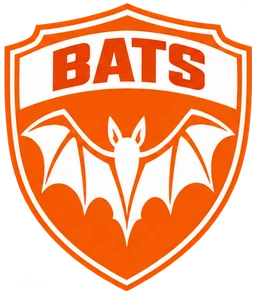
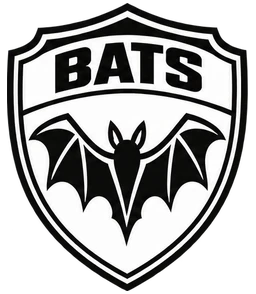
Correct audited overseas crest colours and migrate saved palettes

diff --git a/js/core/world-data.js b/js/core/world-data.js
@@ -1,4 +1,4 @@
 'use strict';
 // 2026/27 club membership only. Source provenance: data/world/sources.json.
 const WORLD_LEAGUES = {"ES1":{"id":"ES1","name":"La Liga","country":"Spain","nat":"ESP","teams":20,"matches":38,"background":true},"IT1":{"id":"IT1","name":"Serie A","country":"Italy","nat":"ITA","teams":20,"matches":38,"background":true},"DE1":{"id":"DE1","name":"Bundesliga","country":"Germany","nat":"GER","teams":18,"matches":34,"background":true},"FR1":{"id":"FR1","name":"Ligue 1","country":"France","nat":"FRA","teams":18,"matches":34,"background":true}};
-const WORLD_CLUBS = [{"id":"ES1_ATH","league":"ES1","name":"Lions of Bilbao","realName":"Athletic Club","city":"Bilbao","nat":"ESP","code":"ATH","c1":"#A50044","c2":"#F7CB46"},{"id":"ES1_OSA","league":"ES1","name":"Rojillos","realName":"CA Osasuna","city":"Pamplona","nat":"ESP","code":"OSA","c1":"#D71920","c2":"#142D4E"},{"id":"ES1_ATM","league":"ES1","name":"Colchoneros","realName":"Club Atlético de Madrid","city":"Madrid","nat":"ESP","code":"ATM","c1":"#A50044","c2":"#F7CB46"},{"id":"ES1_ALA","league":"ES1","name":"Babazorros","realName":"Deportivo Alavés","city":"Vitoria-Gasteiz","nat":"ESP","code":"ALA","c1":"#00529F","c2":"#FFFFFF"},{"id":"ES1_ELC","league":"ES1","name":"Franjiverdes","realName":"Elche CF","city":"Elche","nat":"ESP","code":"ELC","c1":"#007A3D","c2":"#FFFFFF"},{"id":"ES1_BAR","league":"ES1","name":"Blaugrana","realName":"FC Barcelona","city":"Barcelona","nat":"ESP","code":"BAR","c1":"#A50044","c2":"#F7CB46"},{"id":"ES1_GET","league":"ES1","name":"Azulones","realName":"Getafe CF","city":"Getafe","nat":"ESP","code":"GET","c1":"#005CA9","c2":"#FFFFFF"},{"id":"ES1_LEV","league":"ES1","name":"Granotas","realName":"Levante UD","city":"Valencia","nat":"ESP","code":"LEV","c1":"#002D62","c2":"#DA291C"},{"id":"ES1_MAL","league":"ES1","name":"Boquerones","realName":"Málaga CF","city":"Málaga","nat":"ESP","code":"MAL","c1":"#75C5F0","c2":"#FFFFFF"},{"id":"ES1_CEL","league":"ES1","name":"Celestes","realName":"RC Celta de Vigo","city":"Vigo","nat":"ESP","code":"CEL","c1":"#8CCCE5","c2":"#D71920"},{"id":"ES1_DEP","league":"ES1","name":"Herculinos","realName":"RC Deportivo La Coruña","city":"A Coruña","nat":"ESP","code":"DEP","c1":"#00529F","c2":"#FFFFFF"},{"id":"ES1_ESP","league":"ES1","name":"Periquitos","realName":"RCD Espanyol de Barcelona","city":"Barcelona","nat":"ESP","code":"ESP","c1":"#007BC4","c2":"#FFFFFF"},{"id":"ES1_RAY","league":"ES1","name":"Franjirrojos","realName":"Rayo Vallecano de Madrid","city":"Madrid","nat":"ESP","code":"RAY","c1":"#FFFFFF","c2":"#E30613"},{"id":"ES1_BET","league":"ES1","name":"Verdiblancos","realName":"Real Betis Balompié","city":"Seville","nat":"ESP","code":"BET","c1":"#087A3E","c2":"#FFFFFF"},{"id":"ES1_RMA","league":"ES1","name":"Castilla CF","realName":"Real Madrid CF","city":"Madrid","nat":"ESP","code":"RMA","c1":"#A50044","c2":"#F7CB46","existingRoster":"RMA"},{"id":"ES1_RAC","league":"ES1","name":"Montañeses","realName":"Real Racing Club de Santander","city":"Santander","nat":"ESP","code":"RAC","c1":"#00843D","c2":"#FFFFFF"},{"id":"ES1_RSO","league":"ES1","name":"Txuri-Urdin","realName":"Real Sociedad de Fútbol","city":"San Sebastián","nat":"ESP","code":"RSO","c1":"#FFFFFF","c2":"#00529F"},{"id":"ES1_SEV","league":"ES1","name":"Hispalenses","realName":"Sevilla FC","city":"Seville","nat":"ESP","code":"SEV","c1":"#FFFFFF","c2":"#D71920"},{"id":"ES1_VAL","league":"ES1","name":"Bats","realName":"Valencia CF","city":"Valencia","nat":"ESP","code":"VAL","c1":"#FFFFFF","c2":"#F58220"},{"id":"ES1_VIL","league":"ES1","name":"Yellow Submarine","realName":"Villarreal CF","city":"Villarreal","nat":"ESP","code":"VIL","c1":"#A50044","c2":"#F7CB46"},{"id":"IT1_MIL","league":"IT1","name":"Lombardia AC","realName":"AC Milan","city":"Milan","nat":"ITA","code":"MIL","c1":"#1369B0","c2":"#FFFFFF","existingRoster":"MIL"},{"id":"IT1_MON","league":"IT1","name":"Brianzoli","realName":"AC Monza","city":"Monza","nat":"ITA","code":"MON","c1":"#D71920","c2":"#FFFFFF"},{"id":"IT1_FIO","league":"IT1","name":"Viola","realName":"ACF Fiorentina","city":"Florence","nat":"ITA","code":"FIO","c1":"#592C82","c2":"#FFFFFF"},{"id":"IT1_ROM","league":"IT1","name":"Giallorossi","realName":"AS Roma","city":"Rome","nat":"ITA","code":"ROM","c1":"#8E1B2F","c2":"#F5B335"},{"id":"IT1_ATA","league":"IT1","name":"La Dea","realName":"Atalanta BC","city":"Bergamo","nat":"ITA","code":"ATA","c1":"#1369B0","c2":"#FFFFFF"},{"id":"IT1_BOL","league":"IT1","name":"Felsinei","realName":"Bologna FC 1909","city":"Bologna","nat":"ITA","code":"BOL","c1":"#C8102E","c2":"#142D4E"},{"id":"IT1_CAG","league":"IT1","name":"Isolani","realName":"Cagliari Calcio","city":"Cagliari","nat":"ITA","code":"CAG","c1":"#C8102E","c2":"#142D4E"},{"id":"IT1_COM","league":"IT1","name":"Lariani","realName":"Como 1907","city":"Como","nat":"ITA","code":"COM","c1":"#75C5F0","c2":"#FFFFFF"},{"id":"IT1_INT","league":"IT1","name":"Nerazzurri","realName":"FC Internazionale Milano","city":"Milan","nat":"ITA","code":"INT","c1":"#1369B0","c2":"#FFFFFF"},{"id":"IT1_FRO","league":"IT1","name":"Canarini","realName":"Frosinone Calcio","city":"Frosinone","nat":"ITA","code":"FRO","c1":"#F5D328","c2":"#00529F"},{"id":"IT1_GEN","league":"IT1","name":"Grifone","realName":"Genoa CFC","city":"Genoa","nat":"ITA","code":"GEN","c1":"#B5121B","c2":"#142D4E"},{"id":"IT1_JUV","league":"IT1","name":"Old Lady","realName":"Juventus FC","city":"Turin","nat":"ITA","code":"JUV","c1":"#1369B0","c2":"#FFFFFF"},{"id":"IT1_PAR","league":"IT1","name":"Crociati","realName":"Parma Calcio 1913","city":"Parma","nat":"ITA","code":"PAR","c1":"#F5D328","c2":"#00529F"},{"id":"IT1_LAZ","league":"IT1","name":"Biancocelesti","realName":"SS Lazio","city":"Rome","nat":"ITA","code":"LAZ","c1":"#87CEEB","c2":"#FFFFFF"},{"id":"IT1_NAP","league":"IT1","name":"Partenopei","realName":"SSC Napoli","city":"Naples","nat":"ITA","code":"NAP","c1":"#1369B0","c2":"#FFFFFF"},{"id":"IT1_TOR","league":"IT1","name":"Granata","realName":"Torino FC","city":"Turin","nat":"ITA","code":"TOR","c1":"#7A263A","c2":"#FFFFFF"},{"id":"IT1_LEC","league":"IT1","name":"Salentini","realName":"US Lecce","city":"Lecce","nat":"ITA","code":"LEC","c1":"#D71920","c2":"#F5D328"},{"id":"IT1_SAS","league":"IT1","name":"Neroverdi","realName":"US Sassuolo Calcio","city":"Sassuolo","nat":"ITA","code":"SAS","c1":"#00843D","c2":"#111111"},{"id":"IT1_UDI","league":"IT1","name":"Zebrette","realName":"Udinese Calcio","city":"Udine","nat":"ITA","code":"UDI","c1":"#FFFFFF","c2":"#111111"},{"id":"IT1_VEN","league":"IT1","name":"Lagunari","realName":"Venezia FC","city":"Venice","nat":"ITA","code":"VEN","c1":"#111111","c2":"#E56B2F"},{"id":"DE1_KOE","league":"DE1","name":"Billy Goats","realName":"1. FC Köln","city":"Cologne","nat":"GER","code":"KOE","c1":"#ED1C24","c2":"#FFFFFF"},{"id":"DE1_UNI","league":"DE1","name":"Iron Ones","realName":"1. FC Union Berlin","city":"Berlin","nat":"GER","code":"UNI","c1":"#E30613","c2":"#FFFFFF"},{"id":"DE1_MAI","league":"DE1","name":"Zero-Fivers","realName":"1. FSV Mainz 05","city":"Mainz","nat":"GER","code":"MAI","c1":"#C8102E","c2":"#FFFFFF"},{"id":"DE1_LEV","league":"DE1","name":"Rhein 04","realName":"Bayer 04 Leverkusen","city":"Leverkusen","nat":"GER","code":"LEV","c1":"#212121","c2":"#E94F36","existingRoster":"LEV"},{"id":"DE1_DOR","league":"DE1","name":"Black and Yellows","realName":"Borussia Dortmund","city":"Dortmund","nat":"GER","code":"DOR","c1":"#212121","c2":"#E94F36"},{"id":"DE1_BMG","league":"DE1","name":"Foals","realName":"Borussia Mönchengladbach","city":"Mönchengladbach","nat":"GER","code":"BMG","c1":"#FFFFFF","c2":"#111111"},{"id":"DE1_FRA","league":"DE1","name":"Frankfurt Eagles","realName":"Eintracht Frankfurt","city":"Frankfurt","nat":"GER","code":"FRA","c1":"#212121","c2":"#E94F36"},{"id":"DE1_AUG","league":"DE1","name":"Fuggerstädter","realName":"FC Augsburg","city":"Augsburg","nat":"GER","code":"AUG","c1":"#BA0C2F","c2":"#00843D"},{"id":"DE1_BAY","league":"DE1","name":"Bavarians","realName":"FC Bayern München","city":"Munich","nat":"GER","code":"BAY","c1":"#212121","c2":"#E94F36"},{"id":"DE1_S04","league":"DE1","name":"Royal Blues","realName":"FC Schalke 04","city":"Gelsenkirchen","nat":"GER","code":"S04","c1":"#004D9D","c2":"#FFFFFF"},{"id":"DE1_HSV","league":"DE1","name":"Red Shorts","realName":"Hamburger SV","city":"Hamburg","nat":"GER","code":"HSV","c1":"#005CA9","c2":"#FFFFFF"},{"id":"DE1_RBL","league":"DE1","name":"Red Bulls","realName":"RB Leipzig","city":"Leipzig","nat":"GER","code":"RBL","c1":"#212121","c2":"#E94F36"},{"id":"DE1_FRE","league":"DE1","name":"Breisgau Brazilians","realName":"SC Freiburg","city":"Freiburg","nat":"GER","code":"FRE","c1":"#D71920","c2":"#111111"},{"id":"DE1_PAD","league":"DE1","name":"Paderborn Blue-Blacks","realName":"SC Paderborn 07","city":"Paderborn","nat":"GER","code":"PAD","c1":"#00529F","c2":"#111111"},{"id":"DE1_ELV","league":"DE1","name":"Elversberg Village Club","realName":"SV 07 Elversberg","city":"Spiesen-Elversberg","nat":"GER","code":"ELV","c1":"#111111","c2":"#FFFFFF"},{"id":"DE1_WER","league":"DE1","name":"River Islanders","realName":"SV Werder Bremen","city":"Bremen","nat":"GER","code":"WER","c1":"#00843D","c2":"#FFFFFF"},{"id":"DE1_HOF","league":"DE1","name":"Village Club","realName":"TSG 1899 Hoffenheim","city":"Sinsheim","nat":"GER","code":"HOF","c1":"#1961A5","c2":"#FFFFFF"},{"id":"DE1_STU","league":"DE1","name":"Swabians","realName":"VfB Stuttgart","city":"Stuttgart","nat":"GER","code":"STU","c1":"#FFFFFF","c2":"#D71920"},{"id":"FR1_AUX","league":"FR1","name":"Auxerrois","realName":"AJ Auxerre","city":"Auxerre","nat":"FRA","code":"AUX","c1":"#00529F","c2":"#FFFFFF"},{"id":"FR1_MON","league":"FR1","name":"Monégasques","realName":"AS Monaco FC","city":"Monaco","nat":"FRA","code":"MON","c1":"#183766","c2":"#E7EAF1"},{"id":"FR1_ANG","league":"FR1","name":"Scoïstes","realName":"Angers SCO","city":"Angers","nat":"FRA","code":"ANG","c1":"#111111","c2":"#FFFFFF"},{"id":"FR1_TRO","league":"FR1","name":"Troyens","realName":"ES Troyes AC","city":"Troyes","nat":"FRA","code":"TRO","c1":"#75C5F0","c2":"#FFFFFF"},{"id":"FR1_LOR","league":"FR1","name":"Merlus","realName":"FC Lorient","city":"Lorient","nat":"FRA","code":"LOR","c1":"#F36C21","c2":"#111111"},{"id":"FR1_HAV","league":"FR1","name":"Ciel et Marine","realName":"Le Havre AC","city":"Le Havre","nat":"FRA","code":"HAV","c1":"#75C5F0","c2":"#142D4E"},{"id":"FR1_LEM","league":"FR1","name":"Sang et Or du Mans","realName":"Le Mans FC","city":"Le Mans","nat":"FRA","code":"LEM","c1":"#D71920","c2":"#F5D328"},{"id":"FR1_LIL","league":"FR1","name":"Dogues","realName":"Lille OSC","city":"Lille","nat":"FRA","code":"LIL","c1":"#183766","c2":"#E7EAF1"},{"id":"FR1_NIC","league":"FR1","name":"Aiglons","realName":"OGC Nice","city":"Nice","nat":"FRA","code":"NIC","c1":"#D71920","c2":"#111111"},{"id":"FR1_LYO","league":"FR1","name":"Gones","realName":"Olympique Lyonnais","city":"Lyon","nat":"FRA","code":"LYO","c1":"#183766","c2":"#E7EAF1"},{"id":"FR1_MAR","league":"FR1","name":"Phocéens","realName":"Olympique de Marseille","city":"Marseille","nat":"FRA","code":"MAR","c1":"#183766","c2":"#E7EAF1"},{"id":"FR1_PFC","league":"FR1","name":"Parisiens FC","realName":"Paris FC","city":"Paris","nat":"FRA","code":"PFC","c1":"#75C5F0","c2":"#142D4E"},{"id":"FR1_PSG","league":"FR1","name":"Lutece SG","realName":"Paris Saint-Germain FC","city":"Paris","nat":"FRA","code":"PSG","c1":"#183766","c2":"#E7EAF1","existingRoster":"PSG"},{"id":"FR1_STR","league":"FR1","name":"Racing Alsace","realName":"RC Strasbourg Alsace","city":"Strasbourg","nat":"FRA","code":"STR","c1":"#00529F","c2":"#FFFFFF"},{"id":"FR1_LEN","league":"FR1","name":"Sang et Or","realName":"Racing Club de Lens","city":"Lens","nat":"FRA","code":"LEN","c1":"#F5D328","c2":"#D71920"},{"id":"FR1_BRE","league":"FR1","name":"Pirates","realName":"Stade Brestois 29","city":"Brest","nat":"FRA","code":"BRE","c1":"#D71920","c2":"#FFFFFF"},{"id":"FR1_REN","league":"FR1","name":"Rouge et Noir","realName":"Stade Rennais FC 1901","city":"Rennes","nat":"FRA","code":"REN","c1":"#D71920","c2":"#111111"},{"id":"FR1_TOU","league":"FR1","name":"Violets","realName":"Toulouse FC","city":"Toulouse","nat":"FRA","code":"TOU","c1":"#702F8A","c2":"#FFFFFF"}];
+const WORLD_CLUBS = [{"id":"ES1_ATH","league":"ES1","name":"Lions of Bilbao","realName":"Athletic Club","city":"Bilbao","nat":"ESP","code":"ATH","c1":"#ED1C24","c2":"#FFFFFF"},{"id":"ES1_OSA","league":"ES1","name":"Rojillos","realName":"CA Osasuna","city":"Pamplona","nat":"ESP","code":"OSA","c1":"#D71920","c2":"#142D4E"},{"id":"ES1_ATM","league":"ES1","name":"Colchoneros","realName":"Club Atlético de Madrid","city":"Madrid","nat":"ESP","code":"ATM","c1":"#D71920","c2":"#FFFFFF"},{"id":"ES1_ALA","league":"ES1","name":"Babazorros","realName":"Deportivo Alavés","city":"Vitoria-Gasteiz","nat":"ESP","code":"ALA","c1":"#00529F","c2":"#FFFFFF"},{"id":"ES1_ELC","league":"ES1","name":"Franjiverdes","realName":"Elche CF","city":"Elche","nat":"ESP","code":"ELC","c1":"#007A3D","c2":"#FFFFFF"},{"id":"ES1_BAR","league":"ES1","name":"Blaugrana","realName":"FC Barcelona","city":"Barcelona","nat":"ESP","code":"BAR","c1":"#A50044","c2":"#00529F"},{"id":"ES1_GET","league":"ES1","name":"Azulones","realName":"Getafe CF","city":"Getafe","nat":"ESP","code":"GET","c1":"#005CA9","c2":"#FFFFFF"},{"id":"ES1_LEV","league":"ES1","name":"Granotas","realName":"Levante UD","city":"Valencia","nat":"ESP","code":"LEV","c1":"#002D62","c2":"#DA291C"},{"id":"ES1_MAL","league":"ES1","name":"Boquerones","realName":"Málaga CF","city":"Málaga","nat":"ESP","code":"MAL","c1":"#75C5F0","c2":"#FFFFFF"},{"id":"ES1_CEL","league":"ES1","name":"Celestes","realName":"RC Celta de Vigo","city":"Vigo","nat":"ESP","code":"CEL","c1":"#8CCCE5","c2":"#FFFFFF"},{"id":"ES1_DEP","league":"ES1","name":"Herculinos","realName":"RC Deportivo La Coruña","city":"A Coruña","nat":"ESP","code":"DEP","c1":"#00529F","c2":"#FFFFFF"},{"id":"ES1_ESP","league":"ES1","name":"Periquitos","realName":"RCD Espanyol de Barcelona","city":"Barcelona","nat":"ESP","code":"ESP","c1":"#007BC4","c2":"#FFFFFF"},{"id":"ES1_RAY","league":"ES1","name":"Franjirrojos","realName":"Rayo Vallecano de Madrid","city":"Madrid","nat":"ESP","code":"RAY","c1":"#FFFFFF","c2":"#E30613"},{"id":"ES1_BET","league":"ES1","name":"Verdiblancos","realName":"Real Betis Balompié","city":"Seville","nat":"ESP","code":"BET","c1":"#087A3E","c2":"#FFFFFF"},{"id":"ES1_RMA","league":"ES1","name":"Castilla CF","realName":"Real Madrid CF","city":"Madrid","nat":"ESP","code":"RMA","c1":"#FFFFFF","c2":"#FEBE10","existingRoster":"RMA"},{"id":"ES1_RAC","league":"ES1","name":"Montañeses","realName":"Real Racing Club de Santander","city":"Santander","nat":"ESP","code":"RAC","c1":"#00843D","c2":"#FFFFFF"},{"id":"ES1_RSO","league":"ES1","name":"Txuri-Urdin","realName":"Real Sociedad de Fútbol","city":"San Sebastián","nat":"ESP","code":"RSO","c1":"#FFFFFF","c2":"#00529F"},{"id":"ES1_SEV","league":"ES1","name":"Hispalenses","realName":"Sevilla FC","city":"Seville","nat":"ESP","code":"SEV","c1":"#FFFFFF","c2":"#D71920"},{"id":"ES1_VAL","league":"ES1","name":"Bats","realName":"Valencia CF","city":"Valencia","nat":"ESP","code":"VAL","c1":"#FFFFFF","c2":"#111111"},{"id":"ES1_VIL","league":"ES1","name":"Yellow Submarine","realName":"Villarreal CF","city":"Villarreal","nat":"ESP","code":"VIL","c1":"#FFE667","c2":"#002D62"},{"id":"IT1_MIL","league":"IT1","name":"Lombardia AC","realName":"AC Milan","city":"Milan","nat":"ITA","code":"MIL","c1":"#1369B0","c2":"#FFFFFF","existingRoster":"MIL"},{"id":"IT1_MON","league":"IT1","name":"Brianzoli","realName":"AC Monza","city":"Monza","nat":"ITA","code":"MON","c1":"#D71920","c2":"#FFFFFF"},{"id":"IT1_FIO","league":"IT1","name":"Viola","realName":"ACF Fiorentina","city":"Florence","nat":"ITA","code":"FIO","c1":"#592C82","c2":"#FFFFFF"},{"id":"IT1_ROM","league":"IT1","name":"Giallorossi","realName":"AS Roma","city":"Rome","nat":"ITA","code":"ROM","c1":"#8E1B2F","c2":"#F5B335"},{"id":"IT1_ATA","league":"IT1","name":"La Dea","realName":"Atalanta BC","city":"Bergamo","nat":"ITA","code":"ATA","c1":"#1E71B8","c2":"#111111"},{"id":"IT1_BOL","league":"IT1","name":"Felsinei","realName":"Bologna FC 1909","city":"Bologna","nat":"ITA","code":"BOL","c1":"#C8102E","c2":"#142D4E"},{"id":"IT1_CAG","league":"IT1","name":"Isolani","realName":"Cagliari Calcio","city":"Cagliari","nat":"ITA","code":"CAG","c1":"#C8102E","c2":"#142D4E"},{"id":"IT1_COM","league":"IT1","name":"Lariani","realName":"Como 1907","city":"Como","nat":"ITA","code":"COM","c1":"#0047AB","c2":"#FFFFFF"},{"id":"IT1_INT","league":"IT1","name":"Nerazzurri","realName":"FC Internazionale Milano","city":"Milan","nat":"ITA","code":"INT","c1":"#00529F","c2":"#111111"},{"id":"IT1_FRO","league":"IT1","name":"Canarini","realName":"Frosinone Calcio","city":"Frosinone","nat":"ITA","code":"FRO","c1":"#F5D328","c2":"#00529F"},{"id":"IT1_GEN","league":"IT1","name":"Grifone","realName":"Genoa CFC","city":"Genoa","nat":"ITA","code":"GEN","c1":"#B5121B","c2":"#142D4E"},{"id":"IT1_JUV","league":"IT1","name":"Old Lady","realName":"Juventus FC","city":"Turin","nat":"ITA","code":"JUV","c1":"#FFFFFF","c2":"#111111"},{"id":"IT1_PAR","league":"IT1","name":"Crociati","realName":"Parma Calcio 1913","city":"Parma","nat":"ITA","code":"PAR","c1":"#F5D328","c2":"#00529F"},{"id":"IT1_LAZ","league":"IT1","name":"Biancocelesti","realName":"SS Lazio","city":"Rome","nat":"ITA","code":"LAZ","c1":"#87CEEB","c2":"#FFFFFF"},{"id":"IT1_NAP","league":"IT1","name":"Partenopei","realName":"SSC Napoli","city":"Naples","nat":"ITA","code":"NAP","c1":"#1369B0","c2":"#FFFFFF"},{"id":"IT1_TOR","league":"IT1","name":"Granata","realName":"Torino FC","city":"Turin","nat":"ITA","code":"TOR","c1":"#7A263A","c2":"#FFFFFF"},{"id":"IT1_LEC","league":"IT1","name":"Salentini","realName":"US Lecce","city":"Lecce","nat":"ITA","code":"LEC","c1":"#D71920","c2":"#F5D328"},{"id":"IT1_SAS","league":"IT1","name":"Neroverdi","realName":"US Sassuolo Calcio","city":"Sassuolo","nat":"ITA","code":"SAS","c1":"#00843D","c2":"#111111"},{"id":"IT1_UDI","league":"IT1","name":"Zebrette","realName":"Udinese Calcio","city":"Udine","nat":"ITA","code":"UDI","c1":"#FFFFFF","c2":"#111111"},{"id":"IT1_VEN","league":"IT1","name":"Lagunari","realName":"Venezia FC","city":"Venice","nat":"ITA","code":"VEN","c1":"#111111","c2":"#E56B2F"},{"id":"DE1_KOE","league":"DE1","name":"Billy Goats","realName":"1. FC Köln","city":"Cologne","nat":"GER","code":"KOE","c1":"#ED1C24","c2":"#FFFFFF"},{"id":"DE1_UNI","league":"DE1","name":"Iron Ones","realName":"1. FC Union Berlin","city":"Berlin","nat":"GER","code":"UNI","c1":"#E30613","c2":"#FFFFFF"},{"id":"DE1_MAI","league":"DE1","name":"Zero-Fivers","realName":"1. FSV Mainz 05","city":"Mainz","nat":"GER","code":"MAI","c1":"#C8102E","c2":"#FFFFFF"},{"id":"DE1_LEV","league":"DE1","name":"Rhein 04","realName":"Bayer 04 Leverkusen","city":"Leverkusen","nat":"GER","code":"LEV","c1":"#212121","c2":"#E94F36","existingRoster":"LEV"},{"id":"DE1_DOR","league":"DE1","name":"Black and Yellows","realName":"Borussia Dortmund","city":"Dortmund","nat":"GER","code":"DOR","c1":"#FFDD00","c2":"#111111"},{"id":"DE1_BMG","league":"DE1","name":"Foals","realName":"Borussia Mönchengladbach","city":"Mönchengladbach","nat":"GER","code":"BMG","c1":"#FFFFFF","c2":"#111111"},{"id":"DE1_FRA","league":"DE1","name":"Frankfurt Eagles","realName":"Eintracht Frankfurt","city":"Frankfurt","nat":"GER","code":"FRA","c1":"#111111","c2":"#E30613"},{"id":"DE1_AUG","league":"DE1","name":"Fuggerstädter","realName":"FC Augsburg","city":"Augsburg","nat":"GER","code":"AUG","c1":"#BA0C2F","c2":"#00843D"},{"id":"DE1_BAY","league":"DE1","name":"Bavarians","realName":"FC Bayern München","city":"Munich","nat":"GER","code":"BAY","c1":"#DC052D","c2":"#FFFFFF"},{"id":"DE1_S04","league":"DE1","name":"Royal Blues","realName":"FC Schalke 04","city":"Gelsenkirchen","nat":"GER","code":"S04","c1":"#004D9D","c2":"#FFFFFF"},{"id":"DE1_HSV","league":"DE1","name":"Red Shorts","realName":"Hamburger SV","city":"Hamburg","nat":"GER","code":"HSV","c1":"#005CA9","c2":"#FFFFFF"},{"id":"DE1_RBL","league":"DE1","name":"Red Bulls","realName":"RB Leipzig","city":"Leipzig","nat":"GER","code":"RBL","c1":"#FFFFFF","c2":"#DD003F"},{"id":"DE1_FRE","league":"DE1","name":"Breisgau Brazilians","realName":"SC Freiburg","city":"Freiburg","nat":"GER","code":"FRE","c1":"#D71920","c2":"#111111"},{"id":"DE1_PAD","league":"DE1","name":"Paderborn Blue-Blacks","realName":"SC Paderborn 07","city":"Paderborn","nat":"GER","code":"PAD","c1":"#00529F","c2":"#111111"},{"id":"DE1_ELV","league":"DE1","name":"Elversberg Village Club","realName":"SV 07 Elversberg","city":"Spiesen-Elversberg","nat":"GER","code":"ELV","c1":"#111111","c2":"#FFFFFF"},{"id":"DE1_WER","league":"DE1","name":"River Islanders","realName":"SV Werder Bremen","city":"Bremen","nat":"GER","code":"WER","c1":"#00843D","c2":"#FFFFFF"},{"id":"DE1_HOF","league":"DE1","name":"Village Club","realName":"TSG 1899 Hoffenheim","city":"Sinsheim","nat":"GER","code":"HOF","c1":"#1961A5","c2":"#FFFFFF"},{"id":"DE1_STU","league":"DE1","name":"Swabians","realName":"VfB Stuttgart","city":"Stuttgart","nat":"GER","code":"STU","c1":"#FFFFFF","c2":"#D71920"},{"id":"FR1_AUX","league":"FR1","name":"Auxerrois","realName":"AJ Auxerre","city":"Auxerre","nat":"FRA","code":"AUX","c1":"#00529F","c2":"#FFFFFF"},{"id":"FR1_MON","league":"FR1","name":"Monégasques","realName":"AS Monaco FC","city":"Monaco","nat":"FRA","code":"MON","c1":"#E30613","c2":"#FFFFFF"},{"id":"FR1_ANG","league":"FR1","name":"Scoïstes","realName":"Angers SCO","city":"Angers","nat":"FRA","code":"ANG","c1":"#111111","c2":"#FFFFFF"},{"id":"FR1_TRO","league":"FR1","name":"Troyens","realName":"ES Troyes AC","city":"Troyes","nat":"FRA","code":"TRO","c1":"#1C4D8C","c2":"#FFFFFF"},{"id":"FR1_LOR","league":"FR1","name":"Merlus","realName":"FC Lorient","city":"Lorient","nat":"FRA","code":"LOR","c1":"#F36C21","c2":"#111111"},{"id":"FR1_HAV","league":"FR1","name":"Ciel et Marine","realName":"Le Havre AC","city":"Le Havre","nat":"FRA","code":"HAV","c1":"#75C5F0","c2":"#142D4E"},{"id":"FR1_LEM","league":"FR1","name":"Sang et Or du Mans","realName":"Le Mans FC","city":"Le Mans","nat":"FRA","code":"LEM","c1":"#D71920","c2":"#F5D328"},{"id":"FR1_LIL","league":"FR1","name":"Dogues","realName":"Lille OSC","city":"Lille","nat":"FRA","code":"LIL","c1":"#E21A23","c2":"#142D4E"},{"id":"FR1_NIC","league":"FR1","name":"Aiglons","realName":"OGC Nice","city":"Nice","nat":"FRA","code":"NIC","c1":"#D71920","c2":"#111111"},{"id":"FR1_LYO","league":"FR1","name":"Gones","realName":"Olympique Lyonnais","city":"Lyon","nat":"FRA","code":"LYO","c1":"#183766","c2":"#E7EAF1"},{"id":"FR1_MAR","league":"FR1","name":"Phocéens","realName":"Olympique de Marseille","city":"Marseille","nat":"FRA","code":"MAR","c1":"#2FAEE0","c2":"#FFFFFF"},{"id":"FR1_PFC","league":"FR1","name":"Parisiens FC","realName":"Paris FC","city":"Paris","nat":"FRA","code":"PFC","c1":"#75C5F0","c2":"#142D4E"},{"id":"FR1_PSG","league":"FR1","name":"Lutece SG","realName":"Paris Saint-Germain FC","city":"Paris","nat":"FRA","code":"PSG","c1":"#183766","c2":"#E7EAF1","existingRoster":"PSG"},{"id":"FR1_STR","league":"FR1","name":"Racing Alsace","realName":"RC Strasbourg Alsace","city":"Strasbourg","nat":"FRA","code":"STR","c1":"#007BC4","c2":"#FFFFFF"},{"id":"FR1_LEN","league":"FR1","name":"Sang et Or","realName":"Racing Club de Lens","city":"Lens","nat":"FRA","code":"LEN","c1":"#F5D328","c2":"#D71920"},{"id":"FR1_BRE","league":"FR1","name":"Pirates","realName":"Stade Brestois 29","city":"Brest","nat":"FRA","code":"BRE","c1":"#D71920","c2":"#FFFFFF"},{"id":"FR1_REN","league":"FR1","name":"Rouge et Noir","realName":"Stade Rennais FC 1901","city":"Rennes","nat":"FRA","code":"REN","c1":"#D71920","c2":"#111111"},{"id":"FR1_TOU","league":"FR1","name":"Violets","realName":"Toulouse FC","city":"Toulouse","nat":"FRA","code":"TOU","c1":"#702F8A","c2":"#FFFFFF"}];

diff --git a/js/core/world.js b/js/core/world.js
@@ -2,7 +2,7 @@
 // Background club registry. Selected compact squads are added separately;
 // registry membership itself never creates players, fixtures or league jobs.
 function ensureWorldLeagues() {
-  if (G.worldLeagueVersion === 2) return;
+  if (G.worldLeagueVersion === 2) { ensureWorldCrestPalettes(); return; }
   const existing = Object.values(G.clubs);
   G.worldLeagues ||= {};
   for (const definition of Object.values(WORLD_LEAGUES)) {
@@ -27,6 +27,7 @@ function ensureWorldLeagues() {
       mode: ids.some(id => G.clubs[id].foreignSquad) ? 'clubs-and-squads' : 'clubs-only', active: false };
   }
   G.worldLeagueVersion = 2;
+  ensureWorldCrestPalettes();
 }
 
 function worldLeagueClubs(id) {
@@ -71,3 +72,16 @@ const VIRTUAL_SQUAD_PROFILES = {
   DE1: { local: 'GER', localCount: 8, eu: ['ESP','FRA','ITA','POR','NED','BEL','IRL','SCO','DEN','NOR'], nonEuCount: 7, international: ['BRA','ARG','NGA','GHA','SEN','CIV','JPN','MAS','USA'] },
   FR1: { local: 'FRA', localCount: 8, eu: ['ESP','GER','ITA','POR','NED','BEL','IRL','SCO','DEN','NOR'], nonEuCount: 7, international: ['BRA','ARG','NGA','GHA','SEN','CIV','JPN','MAS','USA'] },
 };
+
+// One-time colour correction for the audited clubs, including established squads.
+// Resolve legacy generated foreign IDs through their authored roster identity.
+const WORLD_CREST_PALETTE_FIX_IDS = new Set(["ES1_ATH", "ES1_ATM", "ES1_BAR", "ES1_CEL", "ES1_VAL", "ES1_VIL", "IT1_JUV", "DE1_DOR", "DE1_FRA", "DE1_BAY", "DE1_RBL", "FR1_MON", "FR1_LIL", "ES1_RMA", "IT1_ATA", "IT1_INT", "IT1_COM", "FR1_STR", "FR1_MAR", "FR1_TRO"]);
+function ensureWorldCrestPalettes() {
+  if (G.worldCrestPaletteVersion === 1) return;
+  for (const entry of WORLD_CLUBS.filter(c => WORLD_CREST_PALETTE_FIX_IDS.has(c.id))) {
+    const c = G.clubs[entry.id] || Object.values(G.clubs).find(c => c.foreign && !c.fa &&
+      (entry.existingRoster && c.ros === entry.existingRoster || c.name === entry.name));
+    if (c) { c.c1 = entry.c1; c.c2 = entry.c2; }
+  }
+  G.worldCrestPaletteVersion = 1;
+}

diff --git a/index.html b/index.html
@@ -18,10 +18,10 @@
 
 <!-- core: helpers, static data, players, world state, calendar -->
 <script src="js/core/util.js?v=2026.10.26.1"></script>
-<script src="js/core/data.js?v=2026.10.26.1"></script>
+<script src="js/core/data.js?v=2026.10.26.4"></script>
 <script src="js/core/competitions.js?v=2026.10.26.1"></script>
-<script src="js/core/world-data.js?v=2026.10.26.1"></script>
-<script src="js/core/world.js?v=2026.10.26.1"></script>
+<script src="js/core/world-data.js?v=2026.10.26.4"></script>
+<script src="js/core/world.js?v=2026.10.26.4"></script>
 <script src="js/core/england-fixtures.js?v=2026.10.26.1"></script>
 <script src="js/core/rosters.js?v=2026.10.26.1"></script>
 <script src="js/core/profiles.js?v=2026.10.26.1"></script>
@@ -79,7 +79,7 @@
 <script src="js/systems/briefing.js?v=2026.10.26.1"></script>
 <script src="js/engine/background.js?v=2026.10.26.1"></script>
 <!-- ui: framework, then screens -->
-<script src="js/ui/crests.js?v=2026.10.26.3"></script>
+<script src="js/ui/crests.js?v=2026.10.26.4"></script>
 <script src="js/ui/ui.js?v=2026.10.26.1"></script>
 <script src="js/systems/world-notifications.js?v=2026.10.26.1"></script>
 <script src="js/ui/links.js?v=2026.10.26.1"></script>

diff --git a/js/ui/crests.js b/js/ui/crests.js
@@ -128,7 +128,7 @@ function clubBadge(c, size = 28) {
   if (!c) return '';
   const key = clubCrestKey(c);
   if (!key) return fallbackClubBadge(c, size);
-  return `<img class="crest crest-art" src="public/assets/clubs/${key}.webp" width="${size}" height="${Math.round(size * 1.15)}" alt="" aria-hidden="true" decoding="async" data-crest-club="${esc(c.id || '')}" data-crest-name="${esc(c.name)}">`;
+  return `<img class="crest crest-art" src="public/assets/clubs/${key}.webp?v=2026.10.26.4" width="${size}" height="${Math.round(size * 1.15)}" alt="" aria-hidden="true" decoding="async" data-crest-club="${esc(c.id || '')}" data-crest-name="${esc(c.name)}">`;
 }
 
 // Keep a usable badge if artwork cannot be loaded, including on club selection

diff --git a/js/core/data.js b/js/core/data.js
@@ -47,7 +47,7 @@ const CHAMPIONSHIP_CLUBS = ENGLAND_MEMBERSHIP_2026.ECH.map(id => ENGLISH_CLUBS.f
 
 // Clubs abroad. They play no fixtures; they hold players you can scout and buy. ros: their real-based squad in FOREIGN_ROSTERS (rosters.js).
 const FOREIGN = [
-  { name: 'Castilla CF', ros: 'RMA', nat: 'ESP', rep: 86, c1: '#F5F5F5', c2: '#5B2C83' },
+  { name: 'Castilla CF', ros: 'RMA', nat: 'ESP', rep: 86, c1: '#FFFFFF', c2: '#FEBE10' },
   { name: 'Lutece SG', ros: 'PSG', nat: 'FRA', rep: 84, c1: '#0B2A5B', c2: '#E2001A' },
   { name: 'Lombardia AC', ros: 'MIL', nat: 'ITA', rep: 81, c1: '#B5121B', c2: '#111111' },
   { name: 'Rhein 04', ros: 'LEV', nat: 'GER', rep: 80, c1: '#E32219', c2: '#111111' },

diff --git a/tests/crest-palette-assets.py b/tests/crest-palette-assets.py
@@ -1,0 +1,19 @@
+"""Check actual opaque artwork pixels against the independent colour audit."""
+import json,math
+from pathlib import Path
+from PIL import Image
+root=Path(__file__).resolve().parents[1]
+audit=json.loads((root/'tests/fixtures/crest-palette-audit.json').read_text())
+for key,entry in audit.items():
+ im=Image.open(root/'public/assets/clubs'/f'{key}.webp').convert('RGBA')
+ assert im.size==(256,294) and im.getpixel((0,0))[3]==0,key
+ pixels=[p[:3] for p in im.getdata() if p[3]>230]
+ assert pixels,key
+ fractions=[]
+ for color in entry['colors']:
+  rgb=tuple(int(color[i:i+2],16) for i in (1,3,5))
+  fraction=sum(math.dist(p,rgb)<70 for p in pixels)/len(pixels)
+  assert fraction>0.04,(key,color,round(fraction,3))
+  fractions.append(round(fraction,2))
+ print(key,entry['name'],fractions)
+print('20 corrected crests contain their independently audited colours')

diff --git a/public/assets/clubs/README.md b/public/assets/clubs/README.md
@@ -17,3 +17,5 @@ careers need no migration. Club selection and in-game screens share `clubBadge()
 The English expansion adds 24 crests, covering all 44 English clubs (20 Premier League and 24 Championship). The overseas expansion adds 72 crests for Spain (19), Italy (19), Germany (17) and France (17), preserving the 13 existing overseas crests. All 129 registered clubs now have artwork; free agents and unknown clubs retain generated shields.
 
 Expansion source sheets remain in `/workspace/generated_images/`; each expansion manifest source hash identifies its six-crest PNG sheet. The new overseas files use full league-prefixed IDs, so short codes shared with English clubs cannot select the wrong artwork. Name lookup also supports older saves whose overseas IDs differ. Failed loads resolve static English, foreign and world registries before a career exists.
+
+Colour audit correction (2026-10-26): 20 crests were corrected against the supplied real-club palette audit, including Castilla CF in white/gold and Colchoneros in red/white/navy. A targeted one-time world palette migration updates these clubs in existing careers without rebuilding squads or changing unrelated palettes. `tests/crest-palette-assets.py` checks the actual opaque image pixels against independent expected colours; source hashes now identify the replacement five-crest sheets.
